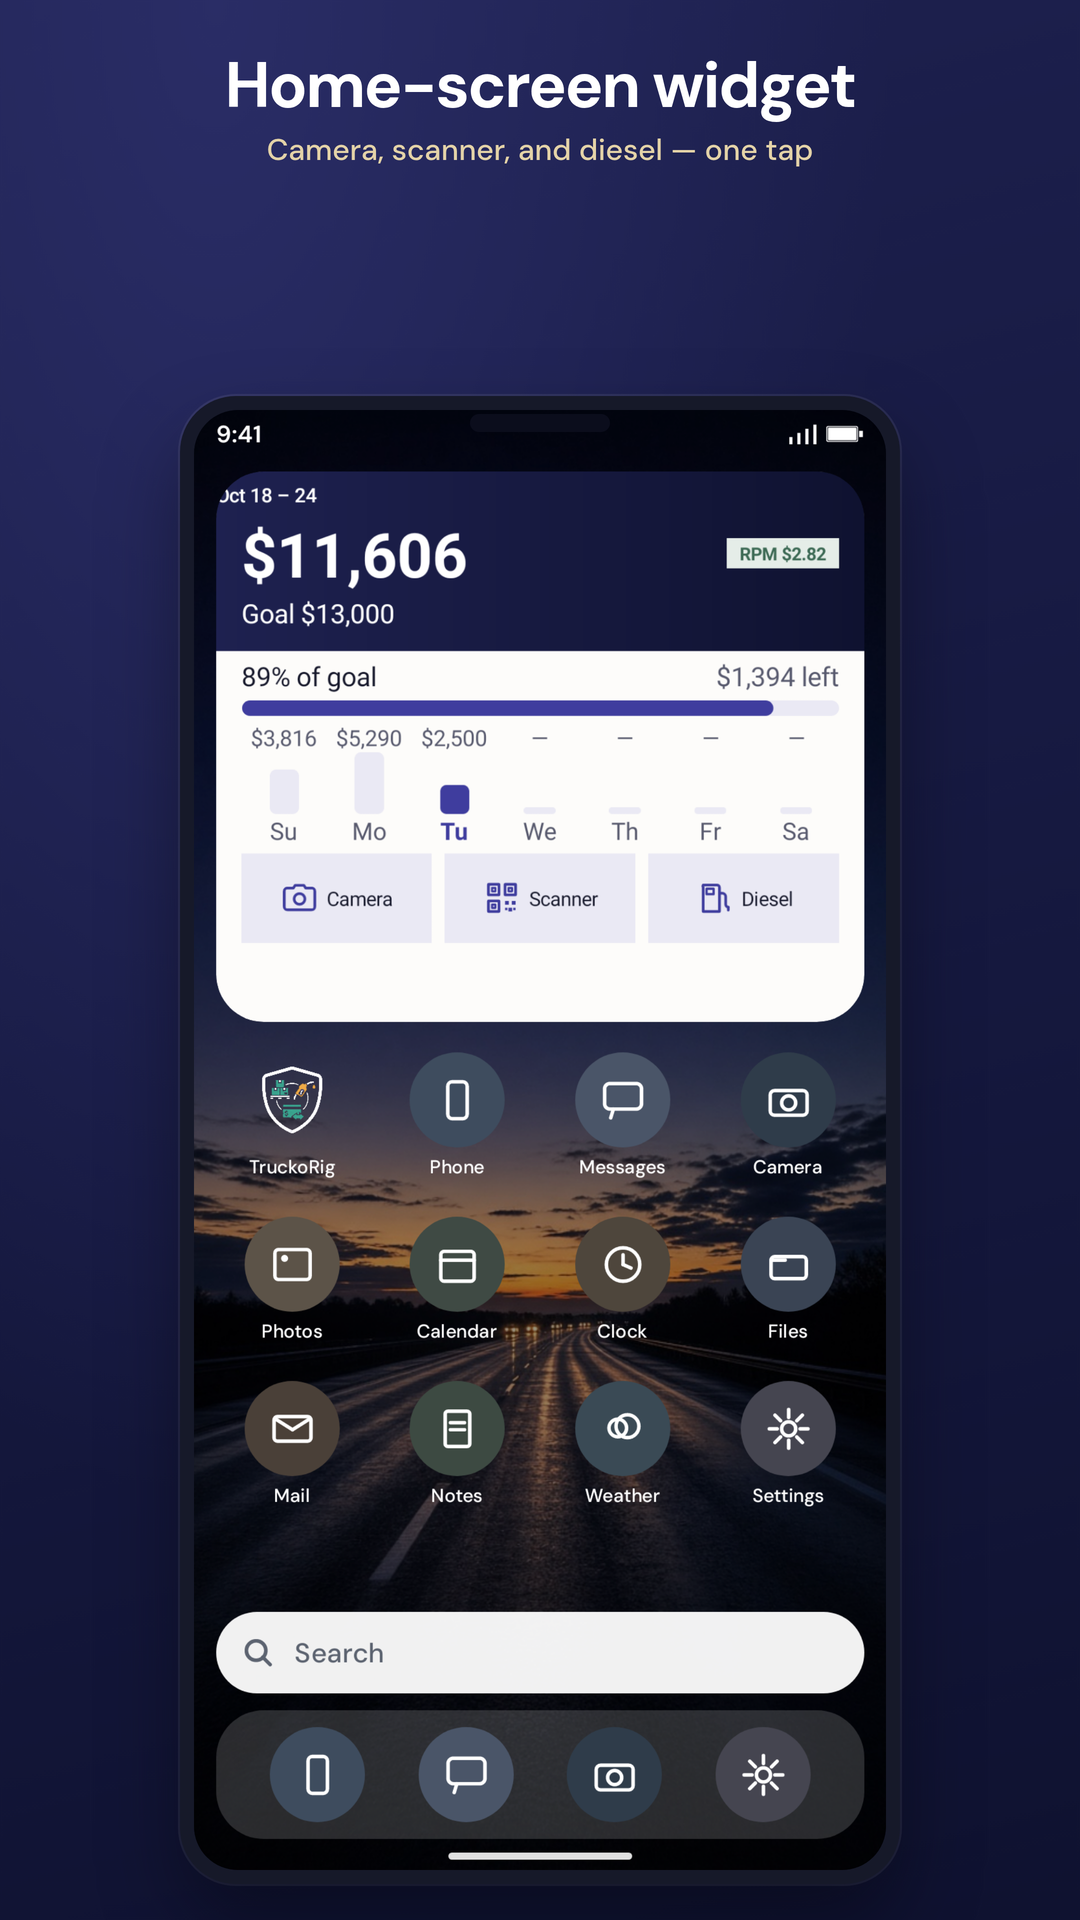
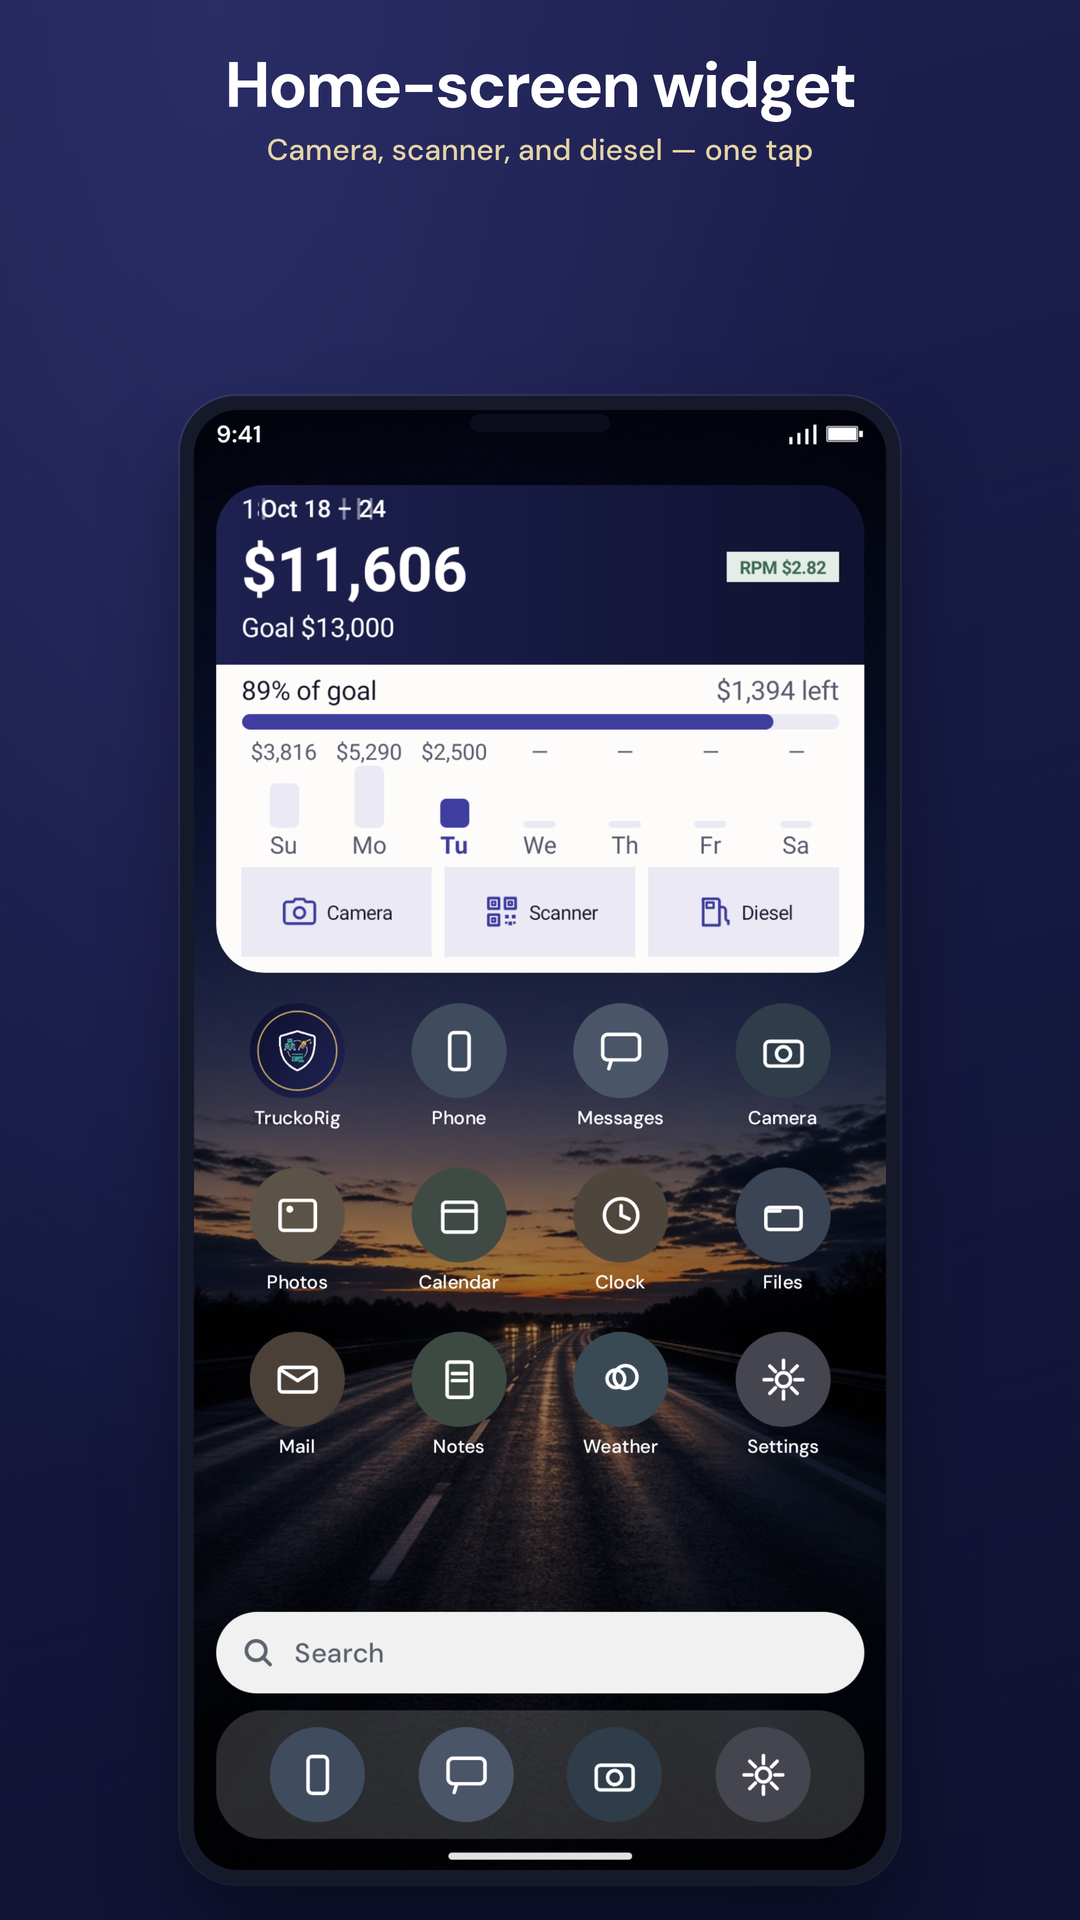
Fix the English home-screen widget frame.
Align the week line with the gross amount, inset the launcher 16dp, crop the empty plate under the buttons, and use the midnight adaptive icon.

Changed region(s): [[0.1833, 0.2188, 0.825, 0.7812]]

diff --git a/truckerload/app/src/test/java/com/truckerload/presentation/store/PlayListingFeatureScreens.kt b/truckerload/app/src/test/java/com/truckerload/presentation/store/PlayListingFeatureScreens.kt
@@ -160,6 +160,9 @@ internal fun PlayDashboard(loads: List<Load>, maintenance: MaintenanceRepository
     }
 }
 
+/** Launcher page inset shared by the widget, icon grid, search pill, and dock. */
+private val LauncherInset = 16.dp
+
 /**
  * Pixel-style launcher. One full-width 4×3 widget under the status bar, then
  * an icon grid, a search pill, a dock, and the gesture bar. The wallpaper stays
@@ -188,8 +191,8 @@ internal fun PlayWidgetHome(wallpaper: Bitmap, widget: Bitmap) {
         )
         Column(modifier = Modifier.fillMaxSize()) {
             DemoStatusBar(onDark = true)
-            Spacer(Modifier.height(8.dp))
-            WidgetPlate(widget, horizontal = 16.dp)
+            Spacer(Modifier.height(LauncherInset))
+            WidgetPlate(widget, horizontal = LauncherInset)
             Spacer(Modifier.height(18.dp))
             HomeIconGrid(launcher)
             Spacer(Modifier.weight(1f))
@@ -207,8 +210,57 @@ internal fun PlayWidgetHome(wallpaper: Bitmap, widget: Bitmap) {
 private fun rememberLauncherIcon(): androidx.compose.ui.graphics.ImageBitmap? {
     val context = LocalContext.current
     return remember(context) {
-        BitmapFactory.decodeResource(context.resources, R.drawable.ic_launcher_image)?.asImageBitmap()
+        adaptiveLauncherIcon(context).asImageBitmap()
     }
+}
+
+/** Icon B: midnight gradient, gold ring, circular, same 56dp as the other plates. */
+private fun adaptiveLauncherIcon(context: Context): Bitmap {
+    val decoded = BitmapFactory.decodeResource(context.resources, R.mipmap.ic_launcher_round)
+    if (decoded != null && isMidnightPlate(decoded)) return decoded
+    return paintAdaptiveLauncherIcon(context)
+}
+
+private fun isMidnightPlate(bitmap: Bitmap): Boolean {
+    val center = bitmap.getPixel(bitmap.width / 2, bitmap.height / 2)
+    val alpha = (center ushr 24) and 0xFF
+    val lum = (((center shr 16) and 0xFF) + ((center shr 8) and 0xFF) + (center and 0xFF)) / 3
+    return alpha > 200 && lum < 80
+}
+
+private fun paintAdaptiveLauncherIcon(context: Context): Bitmap {
+    val size = 192
+    val bitmap = Bitmap.createBitmap(size, size, Bitmap.Config.ARGB_8888)
+    val canvas = AndroidCanvas(bitmap)
+    val paint = Paint(Paint.ANTI_ALIAS_FLAG)
+    paint.shader = android.graphics.LinearGradient(
+        size * 0.89f,
+        size * 0.81f,
+        size * 0.11f,
+        size * 0.19f,
+        0xFF1E2150.toInt(),
+        0xFF0F1230.toInt(),
+        android.graphics.Shader.TileMode.CLAMP,
+    )
+    val radius = size / 2f
+    canvas.drawCircle(radius, radius, radius, paint)
+    paint.shader = null
+    paint.style = Paint.Style.STROKE
+    paint.strokeWidth = size * (1.6f / 108f)
+    paint.color = 0xFFC8A867.toInt()
+    canvas.drawCircle(radius, radius, size * (29.8f / 72f), paint)
+    val mark = BitmapFactory.decodeResource(context.resources, R.drawable.ic_launcher_image)
+    if (mark != null) {
+        val inset = size * (21f / 108f)
+        paint.style = Paint.Style.FILL
+        canvas.drawBitmap(
+            mark,
+            null,
+            android.graphics.RectF(inset, inset, size - inset, size - inset),
+            paint,
+        )
+    }
+    return bitmap
 }
 
 private enum class HomeGlyph { Phone, Chat, Camera, Photo, Calendar, Clock, Folder, Gear, Mail, Note, Cloud }
@@ -238,7 +290,7 @@ private fun HomeIconGrid(launcher: androidx.compose.ui.graphics.ImageBitmap?) {
         { GlyphAppIcon(app) }
     }
     Column(
-        modifier = Modifier.padding(horizontal = 12.dp),
+        modifier = Modifier.padding(horizontal = LauncherInset),
         verticalArrangement = Arrangement.spacedBy(22.dp),
     ) {
         cells.chunked(columns).forEach { row ->
@@ -426,7 +478,7 @@ private fun HomeSearchPill() {
     Row(
         modifier = Modifier
             .fillMaxWidth()
-            .padding(horizontal = 16.dp)
+            .padding(horizontal = LauncherInset)
             .height(48.dp)
             .clip(RoundedCornerShape(24.dp))
             .background(Color.White.copy(alpha = 0.94f))
@@ -460,7 +512,7 @@ private fun HomeDock() {
     Row(
         modifier = Modifier
             .fillMaxWidth()
-            .padding(horizontal = 16.dp)
+            .padding(horizontal = LauncherInset)
             .clip(RoundedCornerShape(28.dp))
             .background(Color.White.copy(alpha = 0.16f))
             .padding(vertical = 10.dp),
@@ -487,7 +539,8 @@ private fun HomeGestureBar() {
 /**
  * The production week header is day-first and lowercase for every locale
  * ("18 – 24 oct"). The English listing wants a US month-first label. This
- * repaints only that header line on the already-rendered widget bitmap.
+ * repaints only that header line, starting at the same left edge as the
+ * gross amount so the rounded header corner cannot clip the first letter.
  */
 internal fun withEnglishWeekRange(source: Bitmap): Bitmap {
     val bitmap = source.copy(Bitmap.Config.ARGB_8888, true)
@@ -501,42 +554,66 @@ internal fun withEnglishWeekRange(source: Bitmap): Bitmap {
         val b = color and 0xFF
         return (r + g + b) / 3
     }
-    val scanBottom = (height * 0.22f).toInt()
-    var top = -1
-    var bottom = -1
-    val leftLimit = (width * 0.06f).toInt()
-    val rightLimit = (width * 0.62f).toInt()
+    fun bright(x: Int, y: Int): Boolean = lum(pixels[y * width + x]) > 200
+    val scanBottom = (height * 0.48f).toInt().coerceAtMost(height)
+    // Skip the rounded corner. A light pixel there is the plate, not a glyph.
+    val inset = (width * 0.07f).toInt()
+    val mid = (width * 0.58f).toInt()
+    val rowCount = IntArray(scanBottom)
     for (y in 0 until scanBottom) {
-        var light = 0
-        for (x in leftLimit until rightLimit) {
-            if (lum(pixels[y * width + x]) > 215) light++
+        var count = 0
+        for (x in inset until mid) {
+            if (bright(x, y)) count++
         }
-        if (light > 10) {
-            if (top < 0) top = y
-            bottom = y
-        } else if (top >= 0 && y > top + 6) {
-            break
+        rowCount[y] = count
+    }
+    var amountTop = -1
+    var amountBottom = -1
+    var bestSpan = 0
+    var y = 0
+    while (y < scanBottom) {
+        if (rowCount[y] > 8) {
+            val bandTop = y
+            while (y < scanBottom && rowCount[y] > 8) y++
+            val bandBottom = y - 1
+            val span = bandBottom - bandTop
+            if (span > bestSpan) {
+                bestSpan = span
+                amountTop = bandTop
+                amountBottom = bandBottom
+            }
+        } else {
+            y++
         }
     }
-    check(top >= 0) { "widget week label was not found on the rendered bitmap" }
-    var textLeft = width
-    var textRight = 0
-    for (y in top..bottom) {
-        for (x in 0 until (width * 0.75f).toInt()) {
-            if (lum(pixels[y * width + x]) > 200) {
-                if (x < textLeft) textLeft = x
-                if (x > textRight) textRight = x
+    check(amountTop >= 0) { "widget amount was not found on the rendered bitmap" }
+    var amountLeft = width
+    for (row in amountTop..amountBottom) {
+        for (x in inset until mid) {
+            if (bright(x, row)) {
+                if (x < amountLeft) amountLeft = x
+                break
             }
         }
     }
-    val sampleY = (bottom + 8).coerceAtMost(height - 1)
-    val clearBottom = (bottom + 2).coerceAtMost(height - 1)
-    for (y in (top - 1).coerceAtLeast(0)..clearBottom) {
-        for (x in (textLeft - 2).coerceAtLeast(0)..(textRight + 8).coerceAtMost(width - 1)) {
-            pixels[y * width + x] = pixels[sampleY * width + x]
+    check(amountLeft < width) { "widget amount has no left edge" }
+    var cursor = amountTop - 1
+    while (cursor >= 0 && rowCount[cursor] > 4) cursor--
+    while (cursor >= 0 && rowCount[cursor] <= 4) cursor--
+    var dateTop = -1
+    var dateBottom = if (cursor >= 0) cursor else -1
+    var dateRight = amountLeft
+    while (cursor >= 0 && rowCount[cursor] > 4) {
+        dateTop = cursor
+        cursor--
+    }
+    check(dateTop >= 0 && dateBottom >= dateTop) { "widget week label was not found on the rendered bitmap" }
+    val minX = (amountLeft - 8).coerceAtLeast(0)
+    for (row in dateTop..dateBottom) {
+        for (x in minX until (width * 0.75f).toInt()) {
+            if (bright(x, row) && x > dateRight) dateRight = x
         }
     }
-    bitmap.setPixels(pixels, 0, width, 0, 0, width, height)
     val density = width / 400f
     val paint = Paint(Paint.ANTI_ALIAS_FLAG).apply {
         color = android.graphics.Color.WHITE
@@ -546,9 +623,79 @@ internal fun withEnglishWeekRange(source: Bitmap): Bitmap {
     val label = "Oct 18 – 24"
     val bounds = android.graphics.Rect()
     paint.getTextBounds(label, 0, label.length, bounds)
-    val baseline = top + (bottom - top - bounds.height()) / 2f - bounds.top
-    AndroidCanvas(bitmap).drawText(label, textLeft.toFloat(), baseline, paint)
+    val bandHeight = (dateBottom - dateTop).toFloat().coerceAtLeast(1f)
+    if (bounds.height() > 0) {
+        val fitted = paint.textSize * (bandHeight / bounds.height())
+        paint.textSize = fitted.coerceIn(12f * density * 0.9f, 12f * density * 1.45f)
+        paint.getTextBounds(label, 0, label.length, bounds)
+    }
+    val textWidth = paint.measureText(label)
+    var gapY = (dateBottom + 1).coerceAtMost(height - 1)
+    for (row in (dateBottom + 1) until amountTop) {
+        if (rowCount[row] == 0) {
+            gapY = row
+            break
+        }
+    }
+    val clearLeft = (amountLeft - 4).coerceAtLeast(0)
+    val clearRight = maxOf(dateRight + 8, (amountLeft + textWidth + 4).toInt()).coerceAtMost(width - 1)
+    val clearTop = (dateTop - 2).coerceAtLeast(0)
+    val clearBottom = (dateBottom + 2).coerceAtMost(height - 1)
+    for (row in clearTop..clearBottom) {
+        for (x in clearLeft..clearRight) {
+            pixels[row * width + x] = pixels[gapY * width + x]
+        }
+    }
+    bitmap.setPixels(pixels, 0, width, 0, 0, width, height)
+    val baseline = dateTop + (bandHeight - bounds.height()) / 2f - bounds.top
+    val drawX = (amountLeft - bounds.left).toFloat()
+    AndroidCanvas(bitmap).drawText(label, drawX, baseline, paint)
     return bitmap
+}
+
+/**
+ * The 4×3 compose size is taller than the FULL layout, so the plate keeps an
+ * empty band under the buttons. Keep the rendered content and a short pad.
+ */
+internal fun croppedToWidgetContent(source: Bitmap): Bitmap {
+    val width = source.width
+    val height = source.height
+    if (width < 8 || height < 8) return source
+    val density = width / 400f
+    val pad = (10f * density).toInt().coerceAtLeast(1)
+    val probeY = (height - (6f * density).toInt()).coerceIn(0, height - 1)
+    val plate = source.getPixel(width / 2, probeY)
+    fun differs(color: Int): Boolean {
+        val alpha = (color ushr 24) and 0xFF
+        if (alpha < 200) return true
+        val dr = kotlin.math.abs(((color shr 16) and 0xFF) - ((plate shr 16) and 0xFF))
+        val dg = kotlin.math.abs(((color shr 8) and 0xFF) - ((plate shr 8) and 0xFF))
+        val db = kotlin.math.abs((color and 0xFF) - (plate and 0xFF))
+        return dr + dg + db > 36
+    }
+    val x0 = (width * 0.14f).toInt()
+    val x1 = (width * 0.86f).toInt()
+    val step = ((x1 - x0) / 48).coerceAtLeast(1)
+    var contentBottom = -1
+    for (y in height - 1 downTo (height * 0.4f).toInt()) {
+        var hits = 0
+        var x = x0
+        while (x < x1) {
+            if (differs(source.getPixel(x, y))) {
+                hits++
+                if (hits >= 3) break
+            }
+            x += step
+        }
+        if (hits >= 3) {
+            contentBottom = y
+            break
+        }
+    }
+    if (contentBottom < 0) return source
+    val keep = (contentBottom + 1 + pad).coerceAtMost(height)
+    if (keep >= height - 2) return source
+    return Bitmap.createBitmap(source, 0, 0, width, keep)
 }
 
 @Composable

diff --git a/truckerload/app/src/test/java/com/truckerload/presentation/store/PlayListingCaptureTest.kt b/truckerload/app/src/test/java/com/truckerload/presentation/store/PlayListingCaptureTest.kt
@@ -188,11 +188,13 @@ class PlayListingCaptureTest {
         val previousLocale = java.util.Locale.getDefault()
         java.util.Locale.setDefault(storyLocale)
         val large = try {
-            withEnglishWeekRange(
-                renderGlanceWidget(
-                    DpSize(400.dp, 340.dp),
-                    selectedOffset = 2,
-                    today = LocalDate.of(2026, 10, 20),
+            croppedToWidgetContent(
+                withEnglishWeekRange(
+                    renderGlanceWidget(
+                        DpSize(400.dp, 340.dp),
+                        selectedOffset = 2,
+                        today = LocalDate.of(2026, 10, 20),
+                    ),
                 ),
             )
         } finally {
